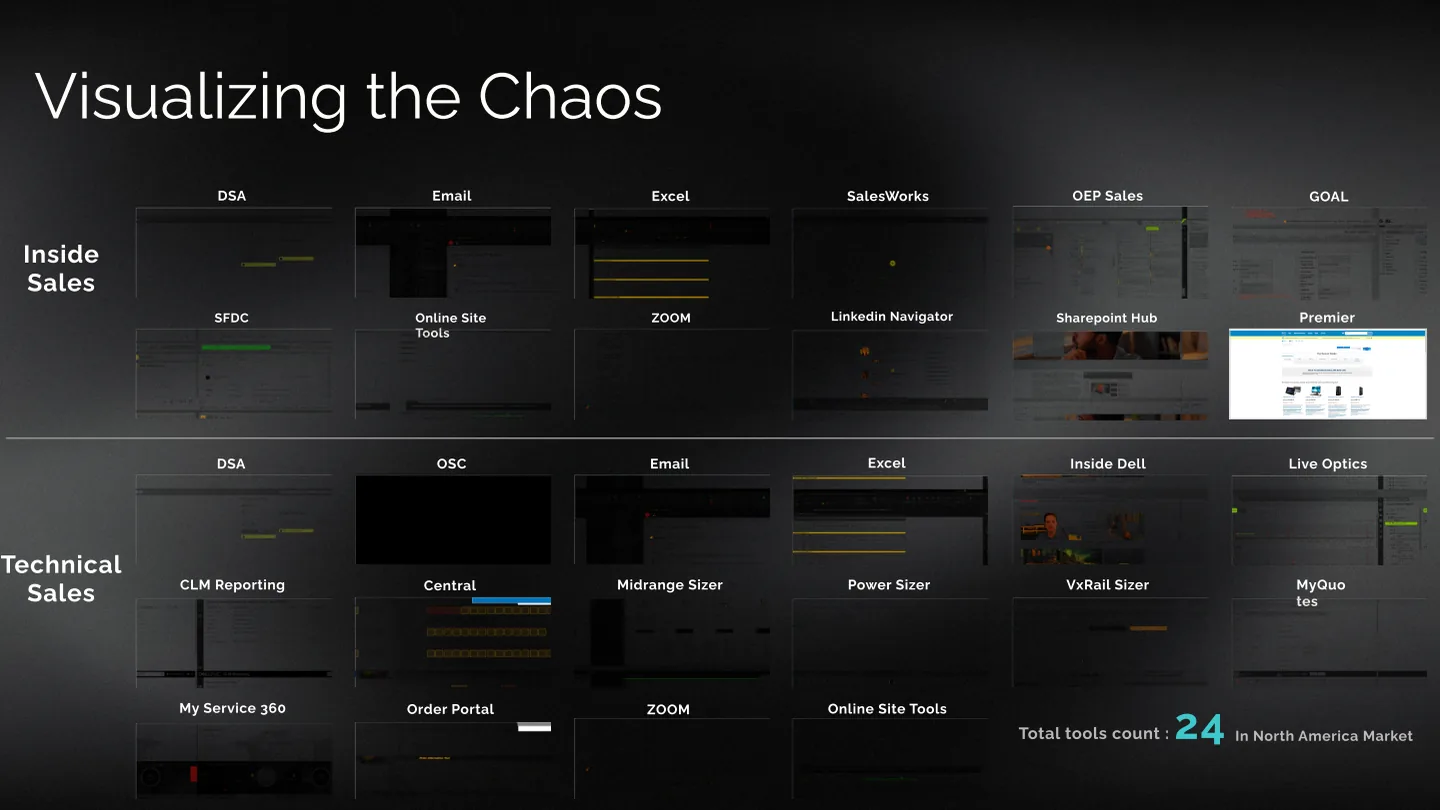
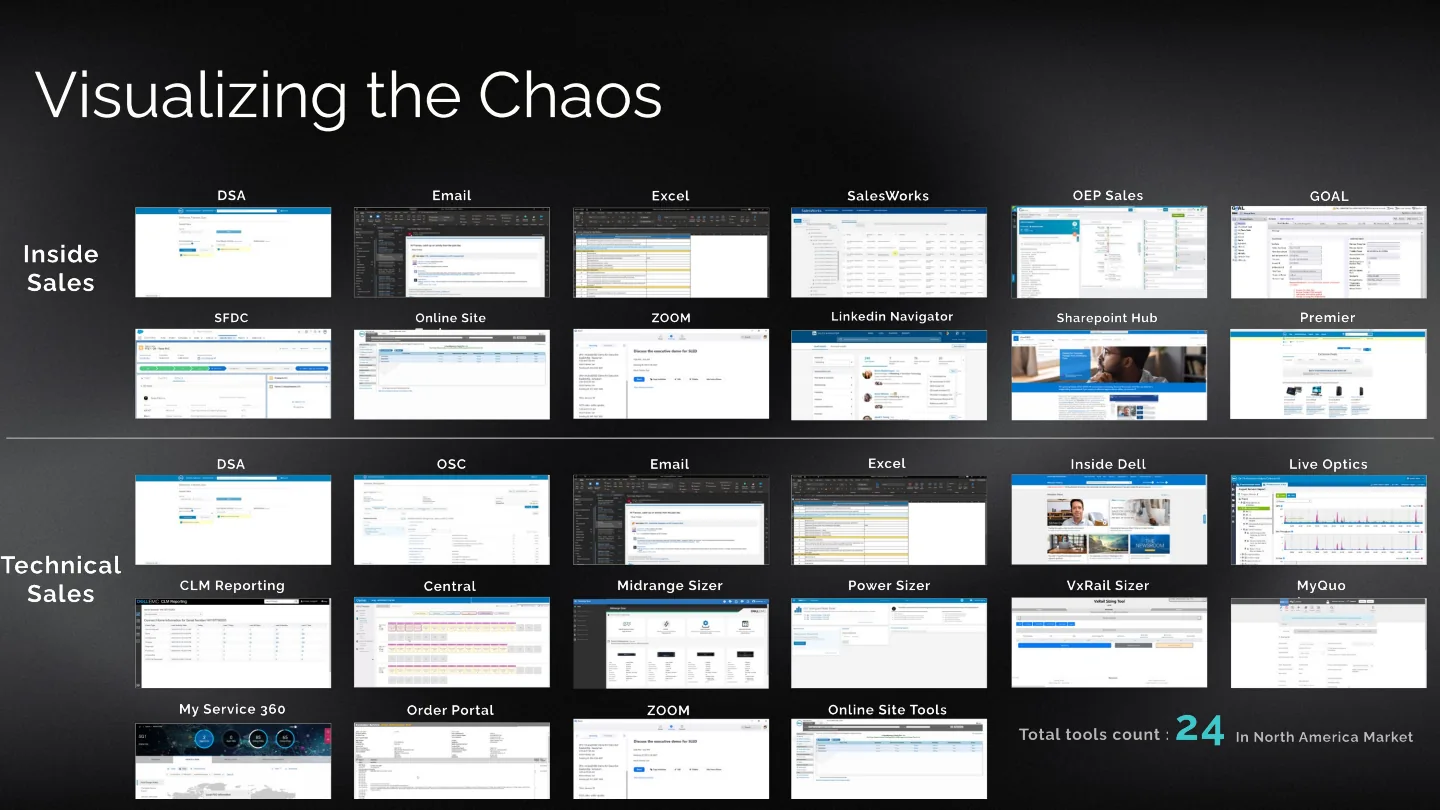
Add Selected Work disclosures and repair UIUC slide 38
Selected Work cards now carry a per-project note stating what Frances
personally designed or built and whether the visual is a real capture,
an abstract placeholder, or synthetic demo data. The wording moves from
a hard-coded conditional in ProjectCard into an optional portfolioNote
on each project, so each entry describes its own situation.

UIUC slide 38 ("Visualizing the Chaos") is re-exported through native
PowerPoint. The collage is a single SVG whose 23 embedded screenshots
sit behind drop-shadow filter chains that LibreOffice cannot composite,
so the previous export lost every screenshot to a black rectangle. Only
that one slide differed materially across the deck, so only its full
image and thumbnail are replaced. The source PPTX is unchanged.

diff --git a/src/data/site.ts b/src/data/site.ts
@@ -60,6 +60,14 @@ export type Project = {
   imageAlt: string;
   /** True when `image` is an abstract stand-in rather than a product capture. */
   imageIsPlaceholder: boolean;
+  /**
+   * What Frances personally did, and what the public representation actually
+   * is. Each project words this for its own situation: the products are real
+   * client work, but what can be shown publicly differs from one to the next.
+   * Keep it factual and specific. If an asset is ever swapped, update the note
+   * with it.
+   */
+  portfolioNote?: string;
   cta?: { label: string; href: string; external: boolean };
 };
 
@@ -77,6 +85,8 @@ export const projects: Project[] = [
     imageAlt:
       'Rate Card Manager prototype showing the All Rate Cards list with search, filters, and draft and published states.',
     imageIsPlaceholder: false,
+    portfolioNote:
+      'I designed and built this interactive portfolio prototype. All data shown is synthetic and created for demonstration purposes.',
     cta: { label: 'Live demo', href: links.rateCardDemo, external: true },
   },
   {
@@ -88,6 +98,8 @@ export const projects: Project[] = [
     image: '/images/projects/atlas.webp',
     imageAlt: 'Abstract graphic of concentric rings and access points representing identity and access management.',
     imageIsPlaceholder: true,
+    portfolioNote:
+      'I designed the administration experience and interaction patterns represented here. The visual shown is an abstract portfolio placeholder, not a production screenshot.',
   },
   {
     slug: 'simba',
@@ -98,6 +110,8 @@ export const projects: Project[] = [
     image: '/images/projects/simba.webp',
     imageAlt: 'Abstract graphic of stacked ledger rules representing connected financial workflows.',
     imageIsPlaceholder: true,
+    portfolioNote:
+      'I designed the workflow, navigation, and interaction concepts represented in this portfolio entry. No production financial data is shown, and the visual above is an abstract portfolio placeholder rather than a product screenshot.',
   },
   {
     slug: 'linear',
@@ -108,6 +122,8 @@ export const projects: Project[] = [
     image: '/images/projects/linear.webp',
     imageAlt: 'Abstract graphic of parallel tracks converging, representing advertising operations handoffs.',
     imageIsPlaceholder: true,
+    portfolioNote:
+      'I designed the workflow and interaction patterns represented in this portfolio entry. The visual above is an abstract portfolio placeholder rather than a product screenshot, and nothing shown here exposes production data.',
   },
 ];
 
